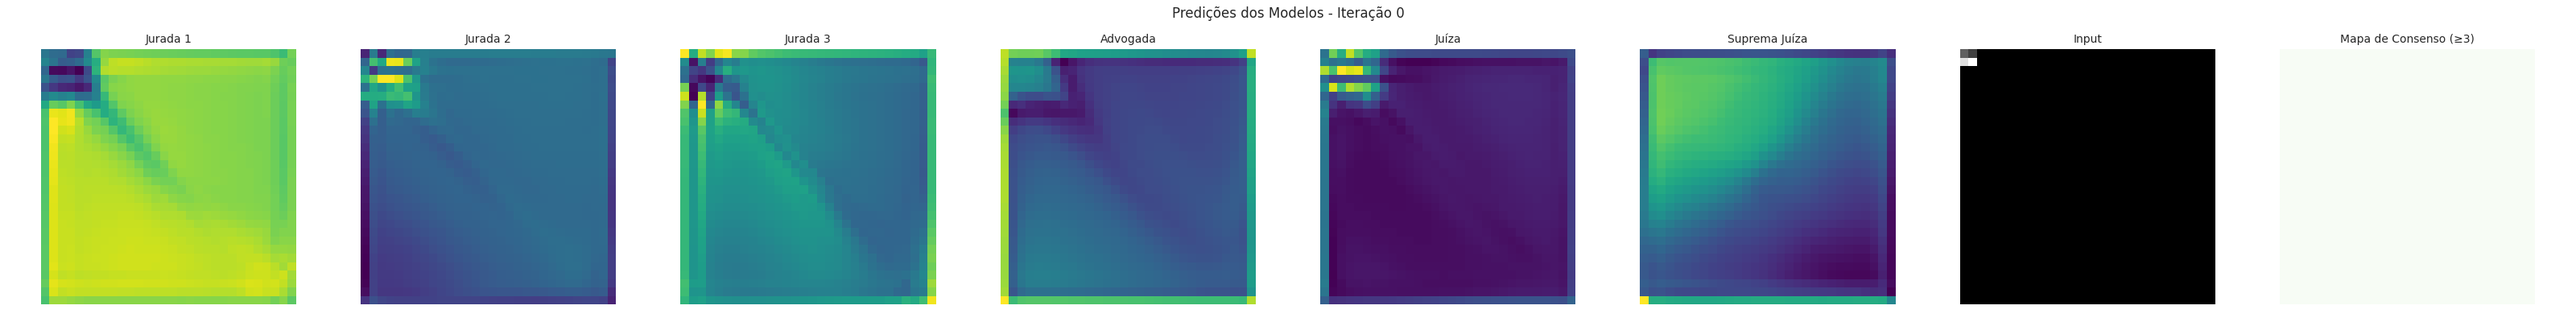
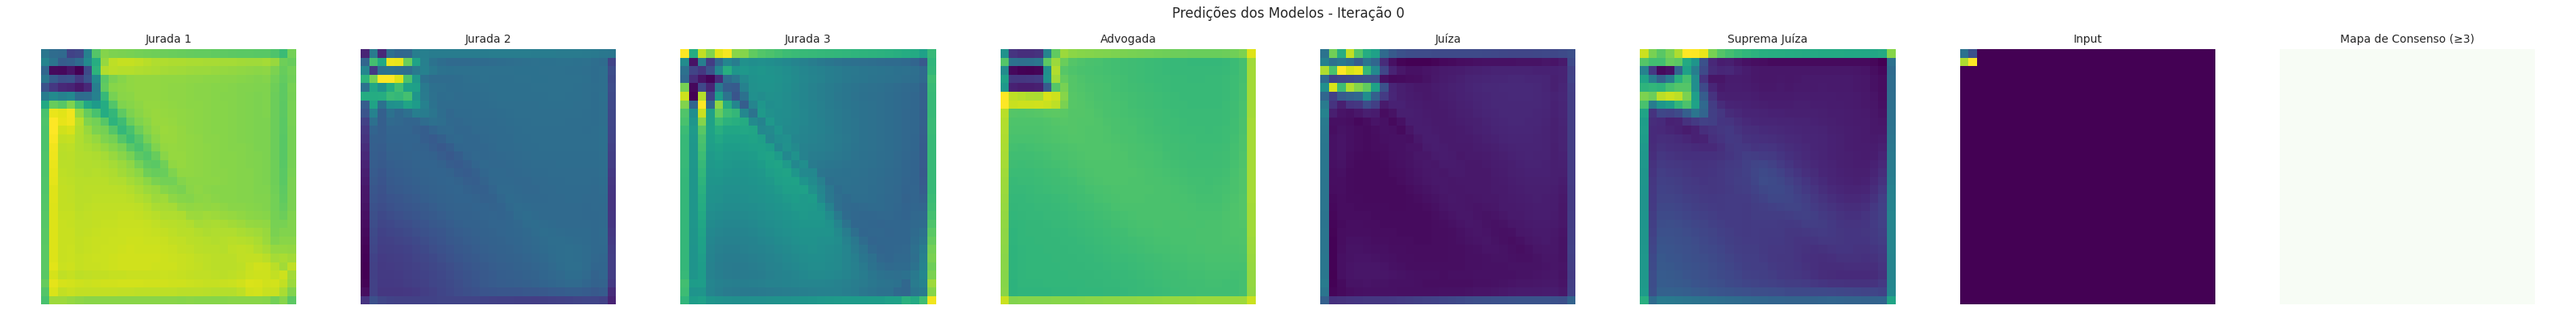
viridis

Changed region(s): [[0.625, 0.15, 0.875, 0.96], [0.375, 0.15, 0.5, 0.96]]

diff --git a/metrics_utils.py b/metrics_utils.py
@@ -176,7 +176,7 @@ def salvar_voto_visual(votos, iteracao, block_idx, input_tensor_outros, idx=0,ta
         input_vis = np.mean(input_vis, axis=-1)
 
     input_vis = np.squeeze(input_vis)
-    sns.heatmap(input_vis, ax=axes[-2], cbar=False, cmap="gray", square=True)
+    sns.heatmap(input_vis, ax=axes[-2], cbar=False, cmap="viridis", square=True)
     axes[-2].set_title("Input", fontsize=10)
     axes[-2].axis("off")
 
